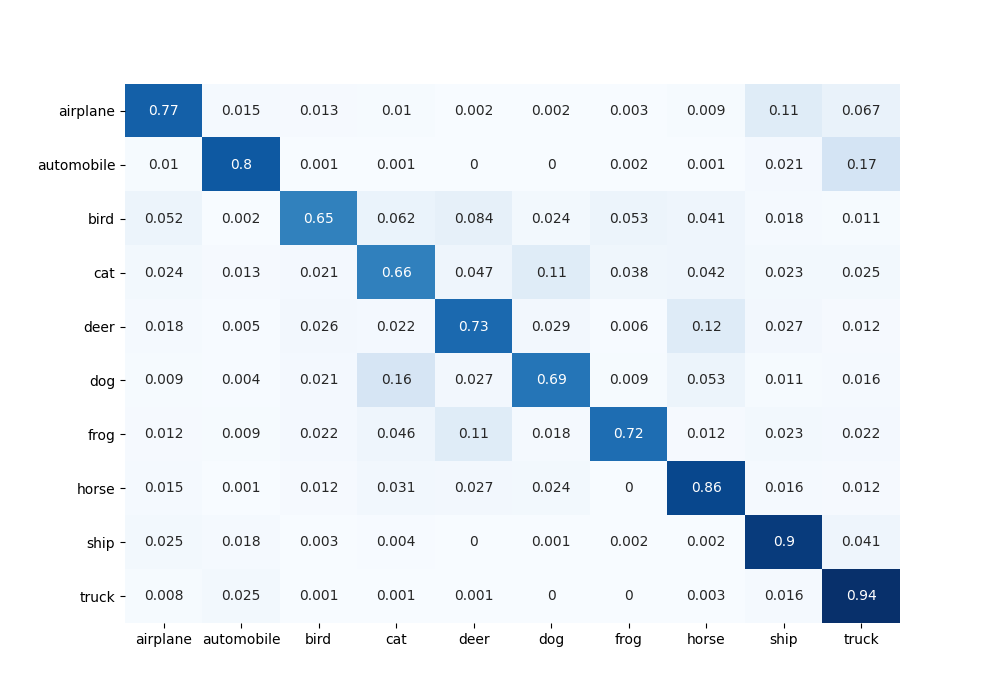
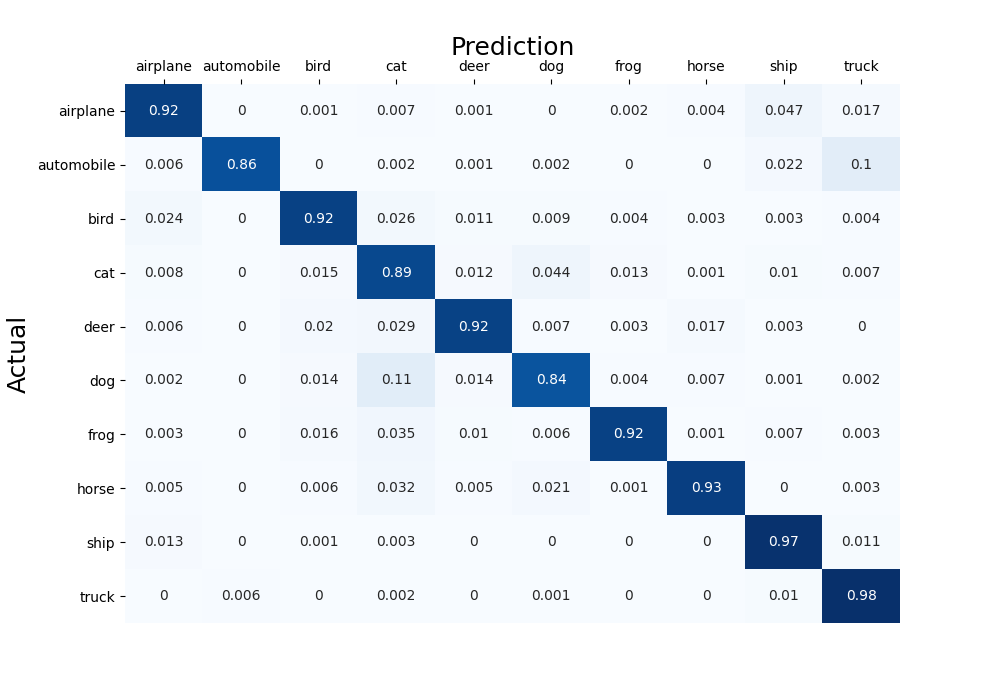
Update readme
Updated results with final network

diff --git a/readme.md b/readme.md
@@ -1,4 +1,4 @@
-Hyperparameter optimization in progress. Updated: 31.01.2021
+Updated: 06.02.2021
  
 # Neural network training, using CIFAR-10 dataset
 A showcase project for my coding practices and use of deep learning.
@@ -12,7 +12,7 @@ Below are 10 images visualized from each class:
 </p>
  
 ## Results
-With my trained neural network I was able to achieve 71.09% accuracy.
+With my trained neural network I was able to achieve 91.48% accuracy.
  
 Below the image of resulting confusion matrix. Correct answers are shown on diagonal.
  
@@ -26,7 +26,7 @@ This project shows skills in following areas:
 Pytorch, Docker, Git, file management, commenting, hyperparameter optimization, dataset management and transformation, knowledge in common neural networks and creation of neural networks and lastly correct model training, testing and early stopping practices.
  
 ## Hyperparameter optimization
-Hyperparameter optimization was done using wandb and 6 runs were done. I used bayesian optimization with hyperband early stops.
+Hyperparameter optimization was done using wandb and 103 runs were done. I used bayesian optimization with hyperband early stops.
  
 Hyperparameters used were:
 - Base Network
@@ -38,5 +38,5 @@ Hyperparameters used were:
 As an optimizer I used Adam and for loss I used CrossEntropyLoss.
  
 <p aling='center'>
-<img width="1000" height="400" src="readme_images/paralel_coords.png">
+<img width="1000" height="300" src="readme_images/paralel_coords.png">
 </p>
